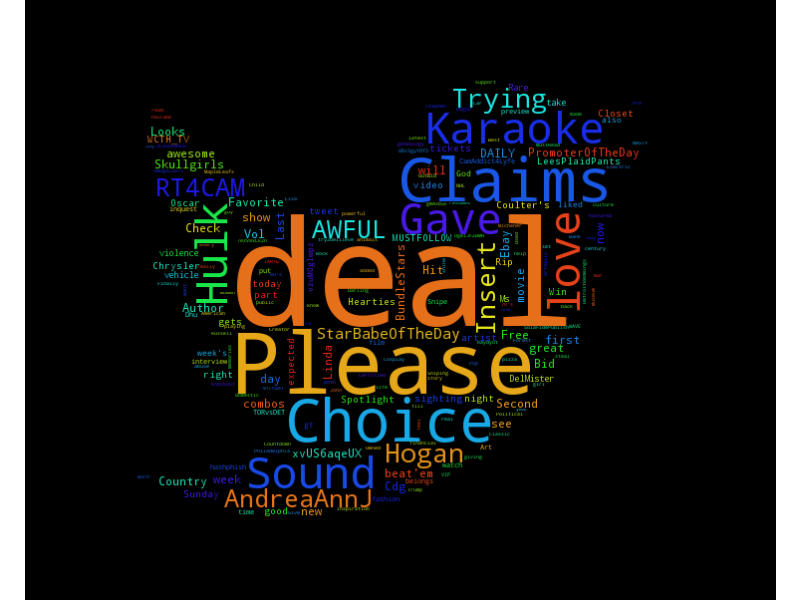
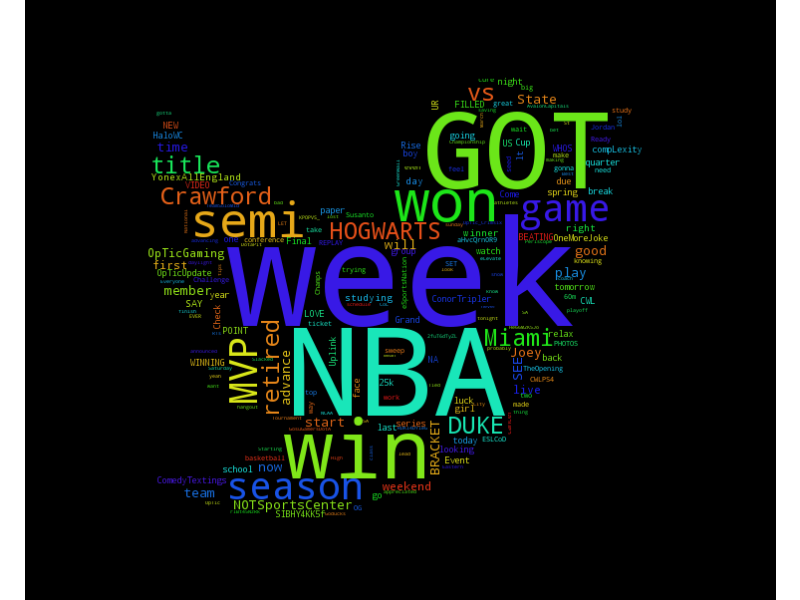
added options to retrieve best and worst tweets

Changed region(s): [[0.1875, 0.12, 0.8125, 0.87]]

diff --git a/DjangoThings/outer_bird/get_rating/templates/get_rating/start.html b/DjangoThings/outer_bird/get_rating/templates/get_rating/start.html
@@ -12,6 +12,8 @@
             <option value="book">Book</option>
             <option value="album">Artist, Album</option>
         </select>
+		<input type="checkbox" name="top_10" value="top_10"> Top 10
+		<input type="checkbox" name="bottom_10" value="bottom_10"> Bottom 10
 		<input type="submit" value="Ask!">
 	</center>
 </form>

diff --git a/DjangoThings/outer_bird/get_rating/views.py b/DjangoThings/outer_bird/get_rating/views.py
@@ -6,7 +6,9 @@ def start(request):
 	if request.method == 'GET':
 		string = request.GET.get('query', '')
 		category = request.GET.get('category', '')
-		newstring, best, worst, plt = thething(string, category)
+		top = request.GET.get('top_10', '')
+		bottom = request.GET.get('bottom_10', '')
+		newstring, best, worst, plt = thething(string, category, top, bottom)
 		c = {'return':newstring, 'best':best, 'worst':worst, 'plot':plt, 'query':string}
 		return render(request, 'get_rating/start.html', c)
 	else:

diff --git a/DjangoThings/outer_bird/get_rating/sentiment.py b/DjangoThings/outer_bird/get_rating/sentiment.py
@@ -111,7 +111,7 @@ def create_bayesian_dict(filename='get_rating/movie_terms.p'):
         pickle.dump(prob_from_bayes(train_naive_bayes()), f)
 
 
-def nltk_vader(query, category = None):
+def nltk_vader(query, category = None, top = None, bottom = None):
     if category == 'movie':
         with open('get_rating/movie_terms.p', "rb") as f:
             movie_terms = pickle.load(f)

diff --git a/DjangoThings/outer_bird/get_rating/doesthething.py b/DjangoThings/outer_bird/get_rating/doesthething.py
@@ -3,7 +3,7 @@ import get_rating.sentiment
 import get_rating.plots
 import numpy as np
 
-def thething(string, category):
+def thething(string, category, top, bottom):
 	if len(string) != 0:
 		query = get_rating.tweets.Query(string)
 		get_rating.tweets.collect_tweets(query,600)
